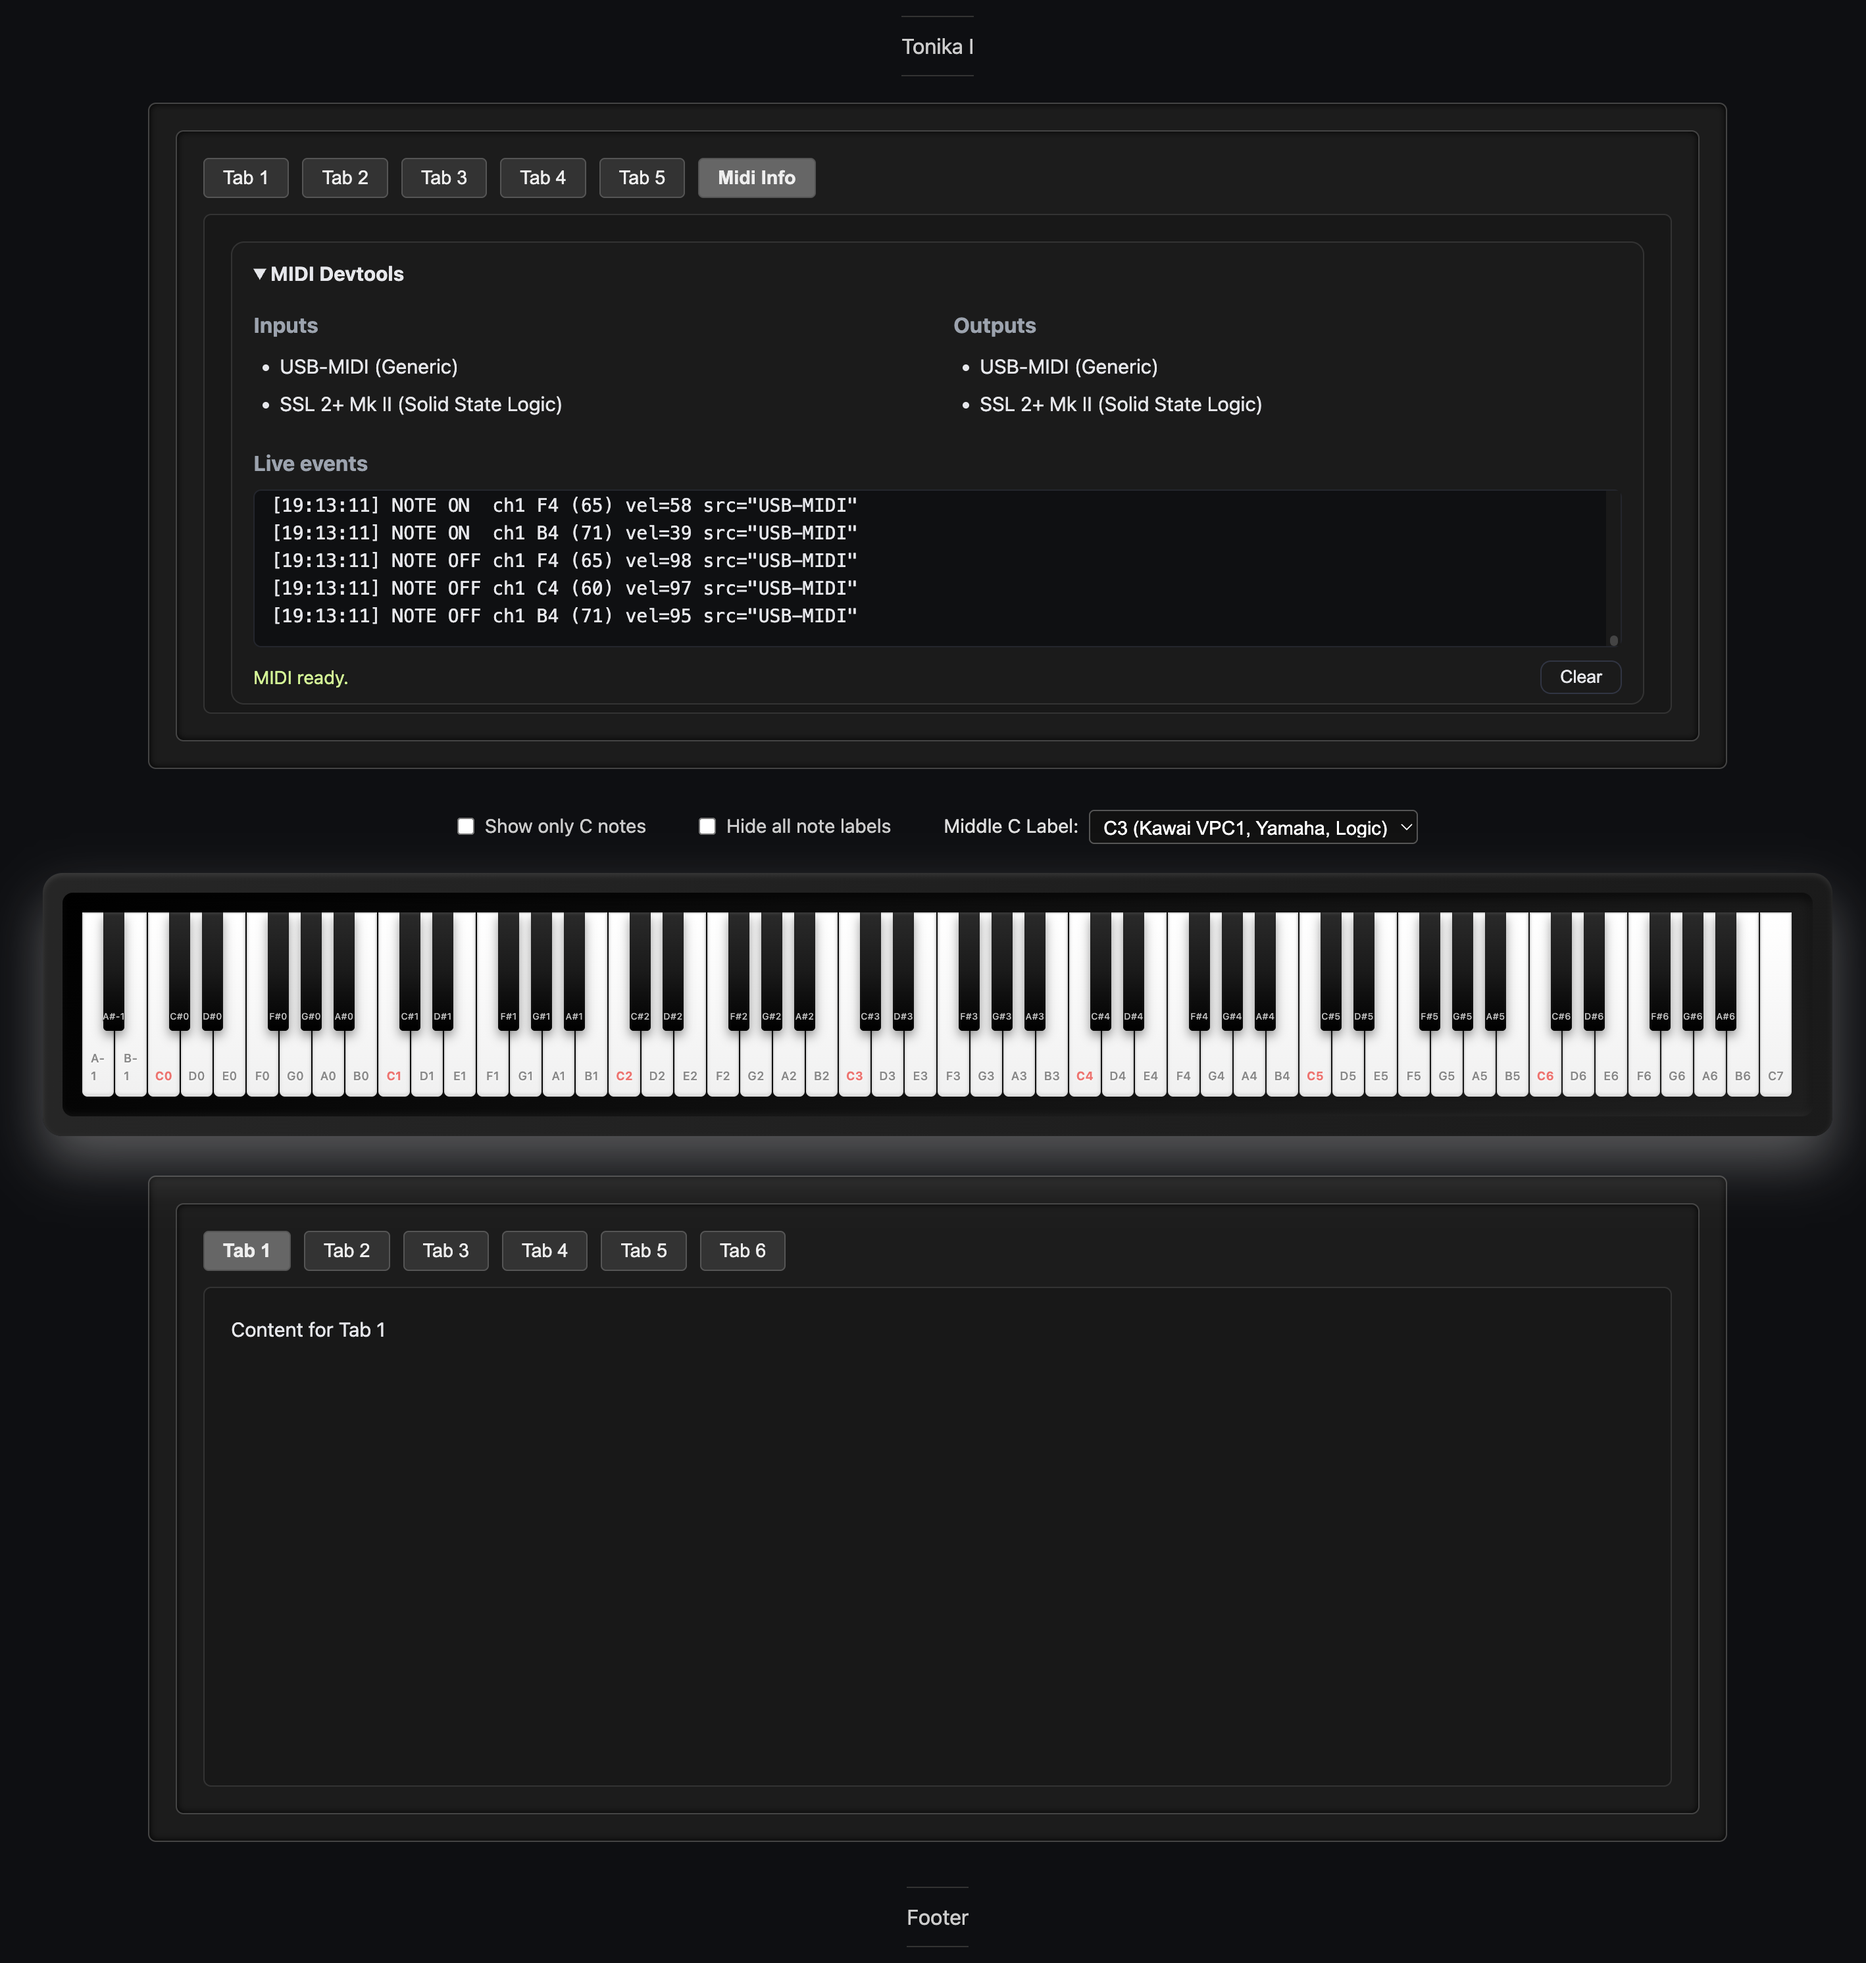
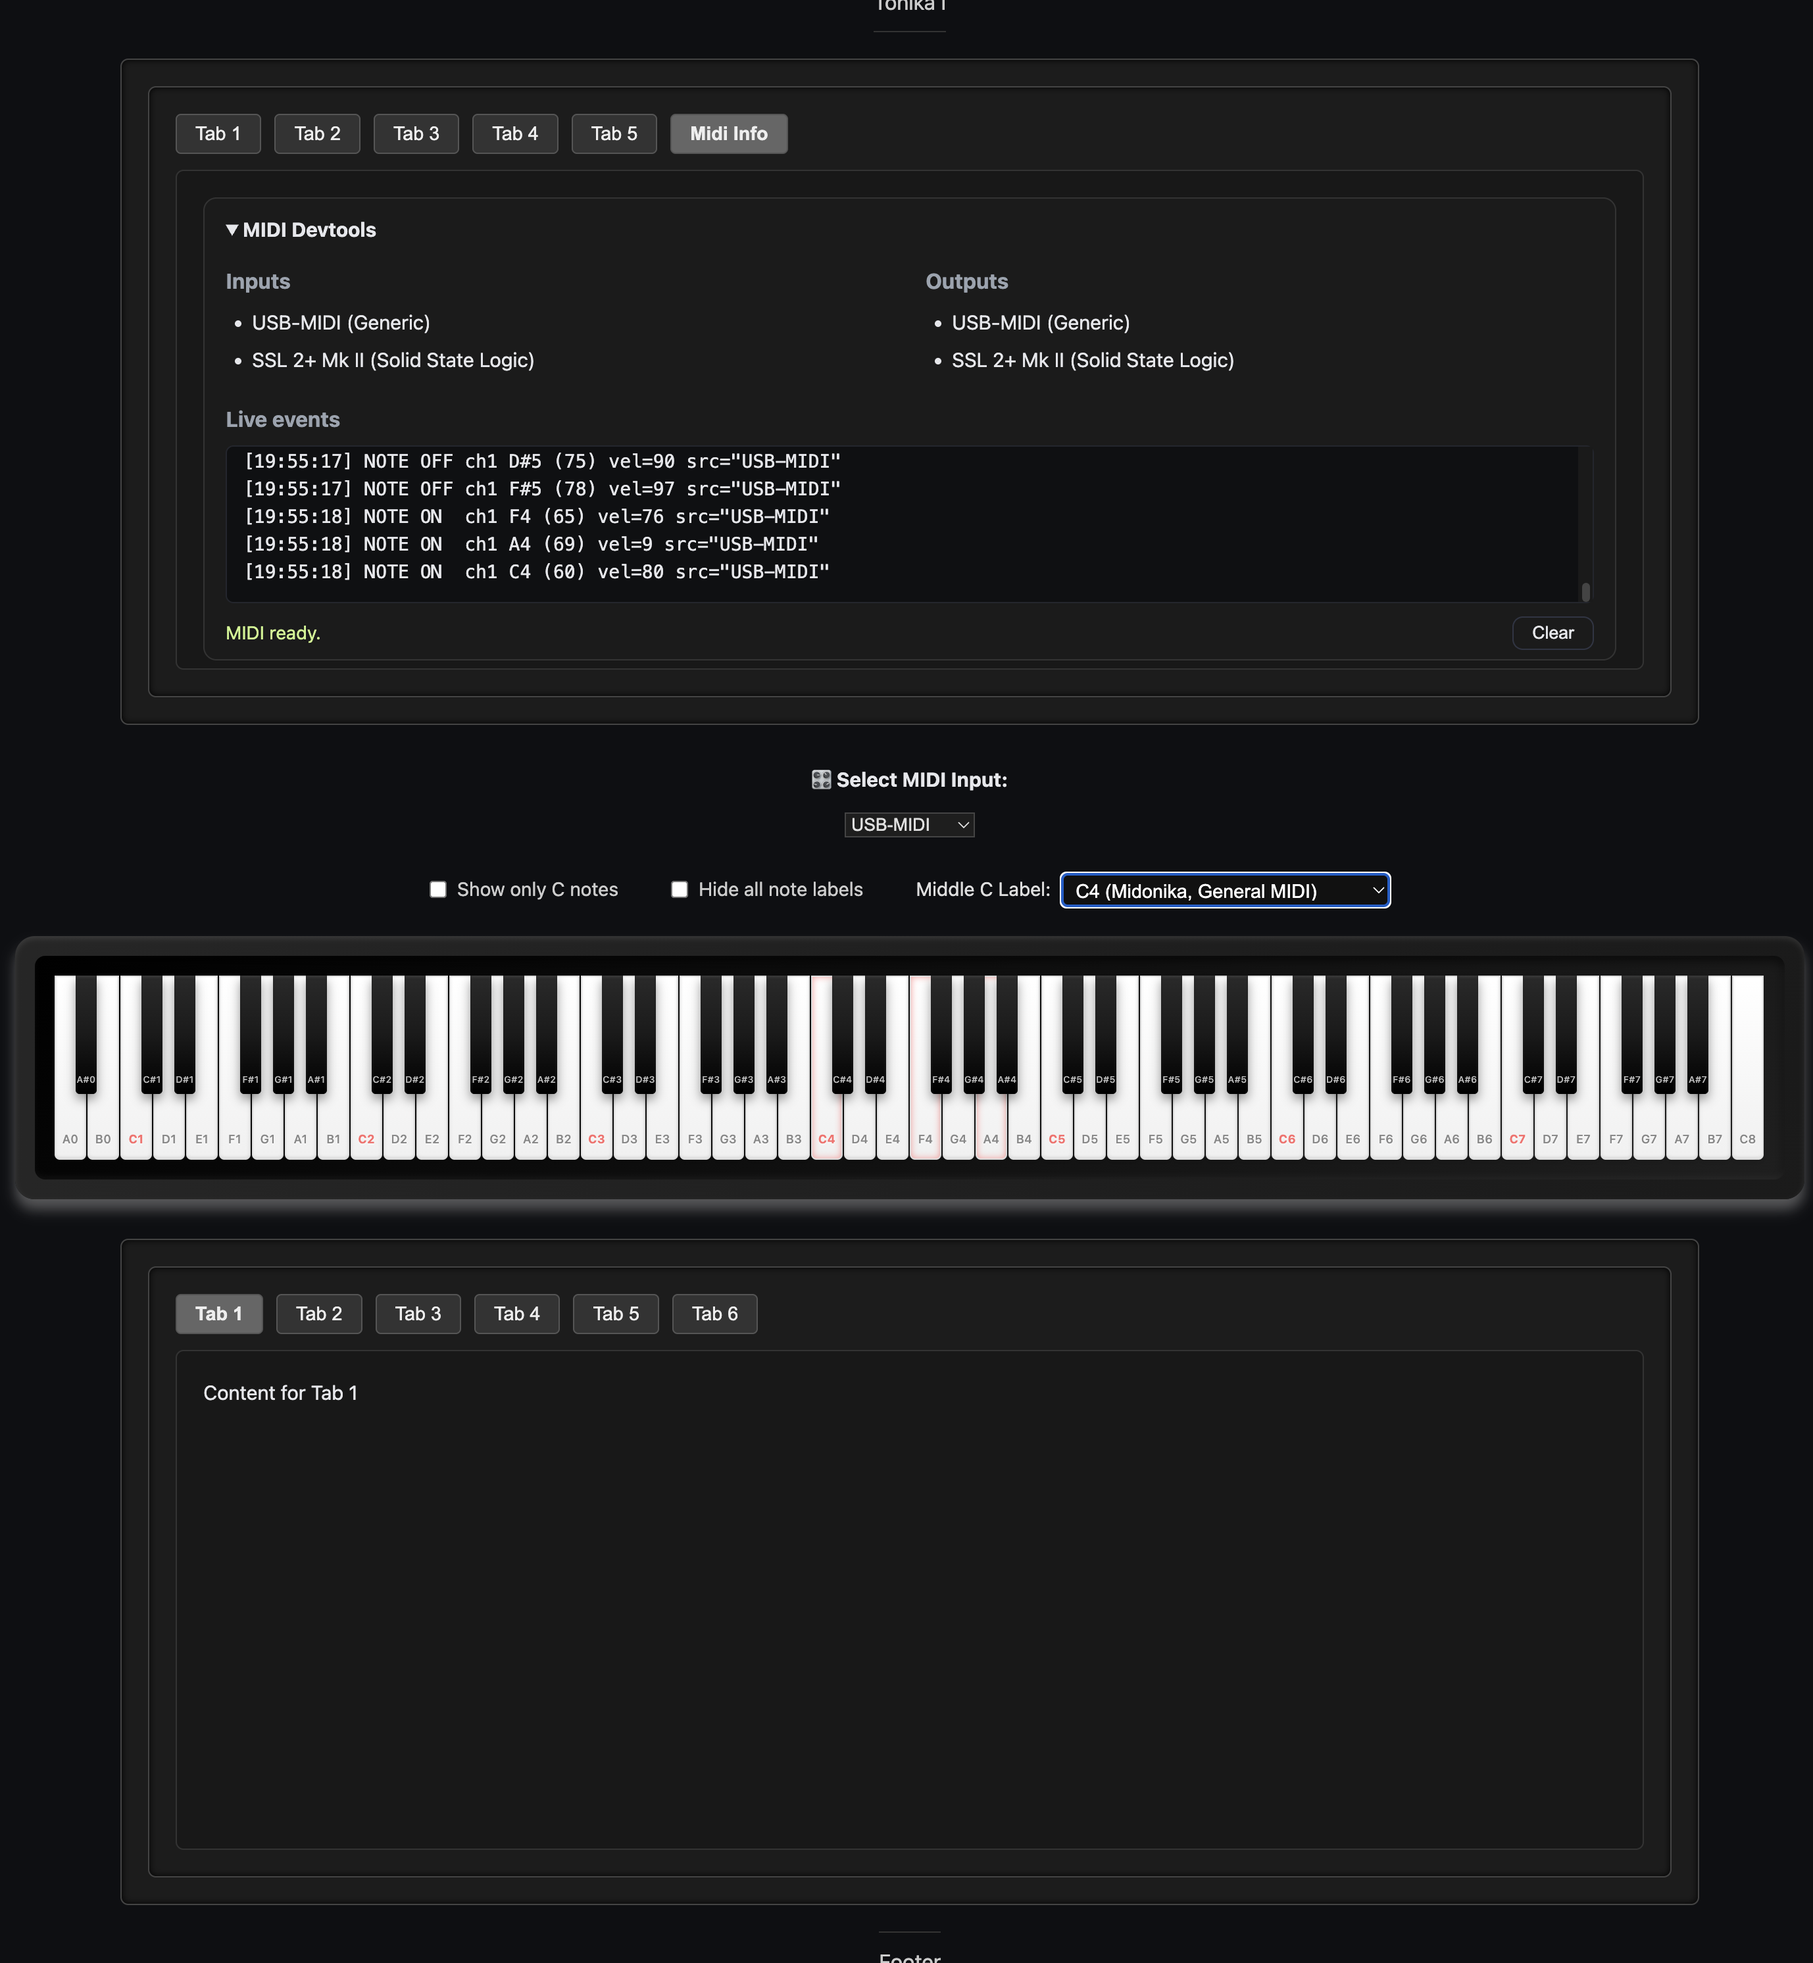
midibridge.js updated readme

diff --git a/js/midibridge.js b/js/midibridge.js
@@ -1,0 +1,73 @@
+/**
+ * midibridge.js
+ *
+ * Handles MIDI input device selection and key highlighting
+ */
+
+let currentInput = null;
+
+function handleMIDIMessage(event) {
+  const [status, note, velocity] = event.data;
+
+  const isNoteOn = (status & 0xf0) === 0x90 && velocity > 0;
+  const isNoteOff =
+    (status & 0xf0) === 0x80 || ((status & 0xf0) === 0x90 && velocity === 0);
+
+  if (isNoteOn) {
+    window.PianoInterface?.noteOn(note);
+  } else if (isNoteOff) {
+    window.PianoInterface?.noteOff(note);
+  }
+}
+
+function populateDeviceDropdown(midiAccess) {
+  const selector = document.getElementById("midiDeviceSelector");
+  selector.innerHTML = ""; // clear
+
+  for (const input of midiAccess.inputs.values()) {
+    const option = document.createElement("option");
+    option.value = input.id;
+    option.textContent = input.name;
+    selector.appendChild(option);
+  }
+
+  // Automatically select first input
+  if (midiAccess.inputs.size > 0) {
+    const firstId = [...midiAccess.inputs.values()][0].id;
+    selector.value = firstId;
+    setCurrentInput(midiAccess, firstId);
+  }
+
+  selector.addEventListener("change", (e) => {
+    setCurrentInput(midiAccess, e.target.value);
+  });
+}
+
+function setCurrentInput(midiAccess, inputId) {
+  if (currentInput) {
+    currentInput.onmidimessage = null; // detach old one
+  }
+  currentInput = midiAccess.inputs.get(inputId);
+  if (currentInput) {
+    currentInput.onmidimessage = handleMIDIMessage;
+    console.log(`🎹 Listening to MIDI input: ${currentInput.name}`);
+  }
+}
+
+function setupMIDIBridge() {
+  if (!navigator.requestMIDIAccess) {
+    console.warn("Web MIDI API not supported");
+    return;
+  }
+
+  navigator.requestMIDIAccess().then((midiAccess) => {
+    populateDeviceDropdown(midiAccess);
+
+    // React to new devices being plugged in
+    midiAccess.onstatechange = () => {
+      populateDeviceDropdown(midiAccess);
+    };
+  });
+}
+
+setupMIDIBridge();

diff --git a/js/piano.js b/js/piano.js
@@ -119,6 +119,7 @@ function generateKeyboard() {
     keyElement.className = "white-key";
     keyElement.setAttribute("data-note", key.note);
     keyElement.setAttribute("data-octave", key.octave);
+    keyElement.setAttribute("data-midi", key.midi); // <-- ADDED
 
     // Highlight Middle C (MIDI 60) visually
     if (key.midi === 60) keyElement.classList.add("middle-c");
@@ -143,6 +144,7 @@ function generateKeyboard() {
     keyElement.className = "black-key";
     keyElement.setAttribute("data-note", key.note);
     keyElement.setAttribute("data-octave", key.octave);
+    keyElement.setAttribute("data-midi", key.midi); // <-- ADDED
     // Highlight Middle C if it's a black key (it isn’t, but included for safety)
     if (key.midi === 60) keyElement.classList.add("middle-c");
 
@@ -190,3 +192,18 @@ toggleAllLabels.addEventListener("change", () => {
     keyboard.classList.remove("hide-all-labels");
   }
 });
+
+/**
+ * External MIDI-friendly interface
+ * Allows external scripts to highlight/unhighlight keys by MIDI number
+ */
+window.PianoInterface = {
+  noteOn(midiNote) {
+    const el = document.querySelector(`[data-midi="${midiNote}"]`);
+    if (el) el.classList.add("active");
+  },
+  noteOff(midiNote) {
+    const el = document.querySelector(`[data-midi="${midiNote}"]`);
+    if (el) el.classList.remove("active");
+  },
+};

diff --git a/index.html b/index.html
@@ -36,6 +36,12 @@
       </section>
 
       <section class="piano-wrapper">
+        <label
+          for="midiDeviceSelector"
+          style="display: block; margin-bottom: 4px; font-weight: bold"
+          >🎛 Select MIDI Input:</label
+        >
+        <select id="midiDeviceSelector" style="margin-bottom: 16px"></select>
         <div class="piano-controls">
           <label>
             <input type="checkbox" id="toggleCOnly" />
@@ -88,6 +94,7 @@
     <script src="js/midonika.iife.js"></script>
     <script src="js/tabs.js"></script>
     <script src="js/piano.js"></script>
+    <script src="./js/midibridge.js"></script>
     <script>
       const midonikaContainer = document.getElementById("midonika-container");
       let midonikaApp = null;

diff --git a/css/piano-styles.css b/css/piano-styles.css
@@ -6,7 +6,7 @@
   padding: 15px;
   border-radius: 15px;
   box-shadow:
-    0 20px 40px rgba(198, 197, 197, 0.4),
+    0 8px 10px rgba(198, 197, 197, 0.4),
     inset 0 2px 4px rgba(255, 255, 255, 0.1);
   overflow-x: auto;
 }
@@ -139,6 +139,16 @@
 .white-key[data-note="C7"] .key-label {
   color: #ff6b6b;
   font-weight: bold;
+}
+
+.white-key.active {
+  background-color: #e06666 !important; /* Pale red for visibility */
+  box-shadow: inset 0 0 5px #ff9999;
+}
+
+.black-key.active {
+  background-color: #aa0000 !important; /* Deep red for black keys */
+  box-shadow: inset 0 0 5px #ff3333;
 }
 
 /* Animation for key press effect */

diff --git a/css/layout.css b/css/layout.css
@@ -158,3 +158,9 @@ main {
 .hidden {
   display: none;
 }
+
+#midiDeviceSelector {
+  background-color: #1e1e1e;
+  color: #e0e0e0;
+  border: 1px solid #444;
+}

diff --git a/README.md b/README.md
@@ -1,22 +1,81 @@
+# 🎹 Simple 88-Key Piano Keyboard
+
 ![alt text](images/screenshot.png "Piano image")
 
-# 88-Key Piano Keyboard (Web Visualizer)
+A responsive, full-range 88-key visual piano built with HTML, CSS, and vanilla JS, now fully integrated with real-time MIDI input and Midonika diagnostic tools.
 
-A beautiful, responsive (or optionally fixed-width) web-based 88-key piano visualizer built in vanilla JavaScript, HTML, and CSS.
+Ideal for:
 
-- 🎹 Supports full 88-key range from A0 (MIDI 21) to C8 (MIDI 108)
-- 🔁 Toggle between C3 / C4 / C5 octave conventions for Middle C
-- 🎨 Styled for clarity, hover feedback, and performance use
-- 🎛 Optional expansion for MIDI input/output, velocity display, etc.
+- Visualising MIDI input (hardware or virtual)
+- Exploring Middle C naming conventions (C3/C4/C5)
+- Auditing live note events via Midonika
+- Modular integration into music learning or MIDI tools
 
 ---
 
-## 🛠 Usage
+## ✨ Features
 
-Clone or download the repo, then open `index.html` in any modern browser:
+- ✅ **88-Key Visual Keyboard**, A0 to C8, styled with natural white/black layout.
+- ✅ **Middle C Convention Selector**, Toggle between C3, C4, or C5 labeling (e.g., Yamaha vs General MIDI vs Notation).
+- ✅ **MIDI Input Device Selector**, Dynamically choose from connected devices.
+- ✅ **Live Key Highlighting**, Keys glow as you play them from any external controller.
+- ✅ **Modular MIDI Bridge**, A clean `midibridge.js` handles note routing from Web MIDI API to the keyboard.
+- ✅ **Midonika Integration**, Monitor connected devices, see detailed logs, and debug messages in real-time.
+- ✅ **Tab-Based Layout**, Easily extendable interface for future tools.
 
-```bash
-git clone https://github.com/your-username/88-key-piano.git
-cd 88-key-piano
-open index.html
-```
+---
+
+## 🧩 Tech Stack
+
+- HTML5, vanilla JS, and CSS
+- Web MIDI API (via `midibridge.js`)
+- Custom DOM interface (`window.PianoInterface`)
+- Styled via `piano-styles.css`, `layout.css`, and `midonika.css`
+
+---
+
+## 🕹 Usage
+
+1. **Clone and serve locally**:
+
+   ```bash
+   git clone https://github.com/aa-parky/simple-88-keys.git
+   cd simple-88-keys
+   npx http-server .
+
+   2.	Connect a MIDI device (USB MIDI keyboard, DAW virtual cable, etc.)
+   3.	Open the browser, visit http://127.0.0.1:8080/, and select a MIDI device.
+   4.	Watch the magic, Keys light up live as you play, with velocity-sensitive logging in Midonika.
+   ```
+
+⸻
+
+🛠 Developer Notes
+• You can trigger key highlights manually via console:
+
+window.PianoInterface.noteOn(60); // Middle C ON
+window.PianoInterface.noteOff(60); // Middle C OFF
+
+    •	Customize highlight colors in piano-styles.css:
+
+.white-key.active { background: #e06666; }
+.black-key.active { background: #aa0000; }
+
+    •	Add audio via the Web Audio API or connect to Tonika/Clavonika ecosystem tools.
+
+⸻
+
+🤝 Credits
+
+Crafted with joy by @aa-parky,
+with contributions from ChatGPT (a.k.a. your faithful goblin assistant 🐾).
+
+Built on:
+• Midonika, MIDI diagnostics and devtools
+• Clavonika, Goblin piano keyboard module
+
+⸻
+
+📜 License
+
+MIT, use freely, modify bravely, and always play in key.
